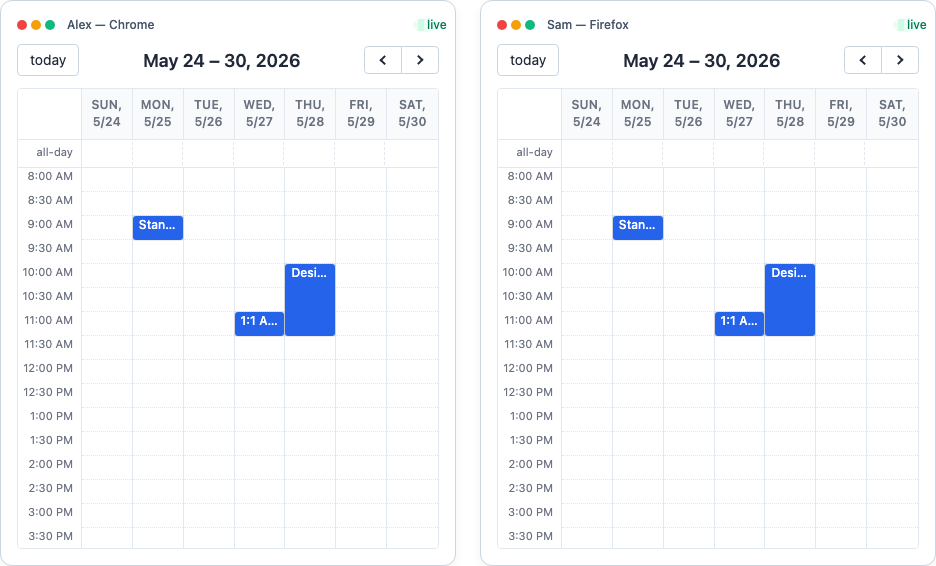
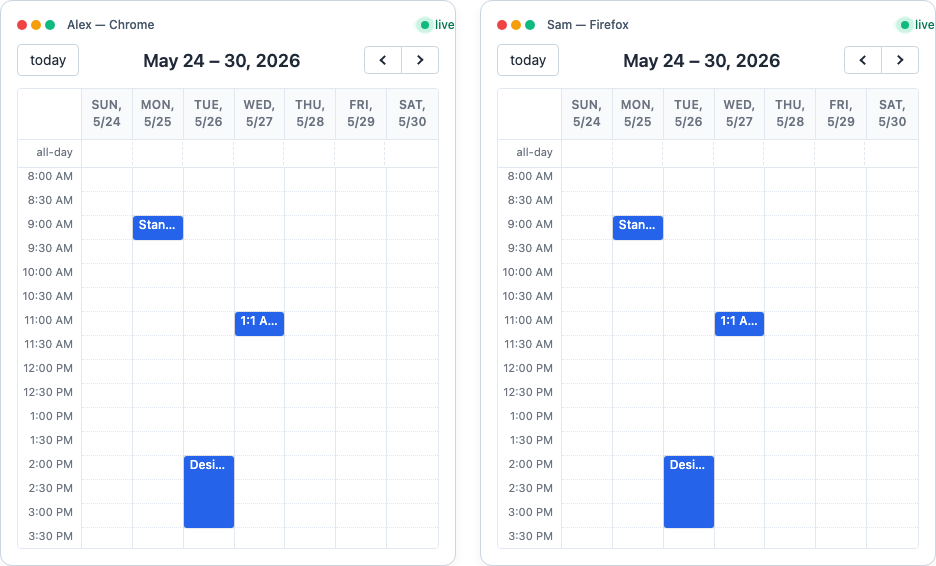
fix(demo): live-badge dot no longer squished + soft pulse
Inside the inline-flex .live-badge the ::before pseudo was flex-shrunk
into an oval (default flex-shrink: 1). Added 'flex: 0 0 auto' so it
stays a perfect circle, plus a low-key 'live-pulse' keyframe so the
sync indicator visibly throbs in the GIF without being distracting.

diff --git a/demo/11-broadcast.html b/demo/11-broadcast.html
@@ -29,8 +29,14 @@
       margin-left: auto;
     }
     .live-badge::before {
-      content: ''; display: inline-block; width: 6px; height: 6px;
-      border-radius: 50%; background: #10b981; box-shadow: 0 0 0 3px #d1fae5;
+      content: ''; flex: 0 0 auto;
+      width: 8px; height: 8px; border-radius: 50%;
+      background: #10b981; box-shadow: 0 0 0 3px #d1fae5;
+      animation: live-pulse 1.6s ease-out infinite;
+    }
+    @keyframes live-pulse {
+      0%, 100% { box-shadow: 0 0 0 3px #d1fae5; }
+      50%      { box-shadow: 0 0 0 5px rgba(16, 185, 129, 0.15); }
     }
   </style>
 </head>
@@ -91,16 +97,35 @@
       el.calendarApi.addEvent({ id:'2', title:'Design crit', start:'2026-05-26T14:00', end:'2026-05-26T15:30' });
       el.calendarApi.addEvent({ id:'3', title:'1:1 Alex',    start:'2026-05-27T11:00', end:'2026-05-27T11:30' });
     }
-    // "Alex moves Design crit" — we ONLY mutate window A. The BroadcastBus
-    // pushes the change through BroadcastChannel("demo-events"); window B's
-    // bus receives it and applies it to its local state. If broadcast wiring
-    // is broken, window B will still show the old position — making this
-    // demo a genuine end-to-end smoke test.
-    await new Promise((r) => setTimeout(r, 40));
-    a.calendarApi.updateEvent({ id:'2', title:'Design crit', start:'2026-05-28T10:00', end:'2026-05-28T11:30' });
-    // Brief settle so the BroadcastChannel deliver loop completes before the
-    // screenshot is captured.
-    await new Promise((r) => setTimeout(r, 80));
+    // Expose mutation helpers so the GIF-capture script can drive the demo
+    // frame-by-frame. The default behaviour — when no script drives it — is
+    // a loop that moves Design crit between two slots so the page itself
+    // shows the live sync without external help.
+    window.demo = {
+      a, b,
+      moveDesignCritLate() {
+        a.calendarApi.updateEvent({ id:'2', title:'Design crit', start:'2026-05-28T10:00', end:'2026-05-28T11:30' });
+      },
+      moveDesignCritOriginal() {
+        a.calendarApi.updateEvent({ id:'2', title:'Design crit', start:'2026-05-26T14:00', end:'2026-05-26T15:30' });
+      },
+    };
+    if (!window.__SCREENSHOT__) {
+      // Auto-loop for live viewers.
+      const loop = async () => {
+        while (document.body.isConnected) {
+          await new Promise((r) => setTimeout(r, 1400));
+          window.demo.moveDesignCritLate();
+          await new Promise((r) => setTimeout(r, 1400));
+          window.demo.moveDesignCritOriginal();
+        }
+      };
+      loop();
+    } else {
+      // GIF script: leave the calendar at the initial state and let the
+      // capturer step through frames via window.demo.*
+      await new Promise((r) => setTimeout(r, 80));
+    }
   </script>
 </body>
 </html>